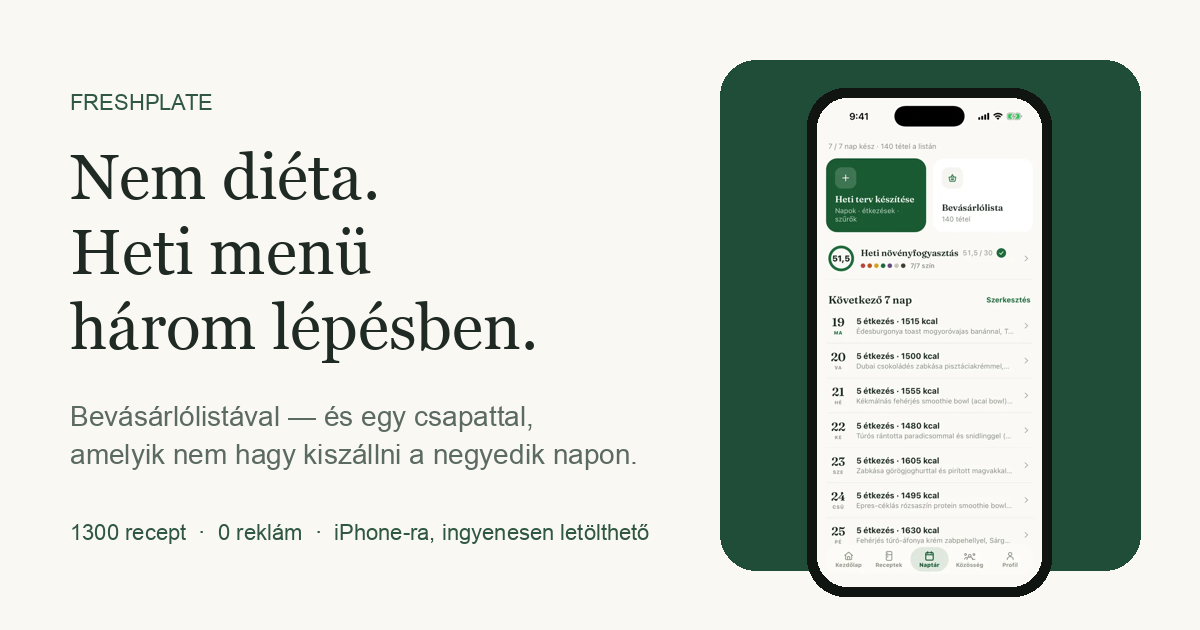
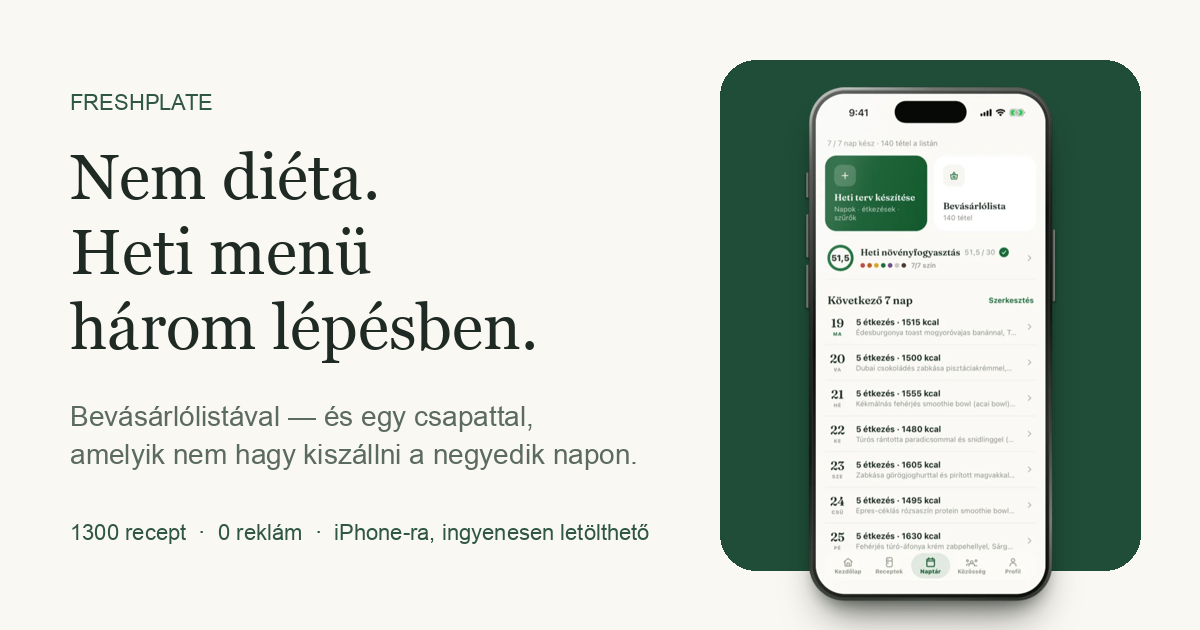
Landing: valósághű készülékkeretes telefon-képek (Store-galéria keret, 1:1 forrás, átlátszó háttér), fix magasságú, fehérbe olvadó színpad a lépés-kártyákban, OG-kép frissítve

Changed region(s): [[0.6475, 0.1206, 0.8942, 1.0]]

diff --git a/index.html b/index.html
@@ -67,12 +67,10 @@
   .facts { display:flex; flex-wrap:wrap; gap:10px 22px; margin-top:26px; font-size:.9rem; color:var(--muted); }
   .facts b { color:var(--ink); font-weight:600; }
 
-  /* Telefon-keret */
-  .phone { position:relative; width:250px; margin:0 auto; border-radius:40px; background:#101512; padding:10px;
-    box-shadow:0 30px 60px -30px rgba(31,42,36,.55), 0 0 0 1px rgba(0,0,0,.35) inset; }
-  .phone::before { content:""; position:absolute; top:18px; left:50%; transform:translateX(-50%); width:78px; height:22px; border-radius:12px; background:#000; z-index:2; }
-  .phone img { display:block; width:100%; border-radius:31px; }
-  .phone.lg { width:290px; }
+  /* Készülék-képek: a Store-galéria valósághű keretével renderelve, árnyékkal, átlátszó háttéren
+     (marketing/store-galeria/landing-phones). A képernyő 1:1 a forrással → 230 px-ig retinán éles. */
+  .device { display:block; width:100%; height:auto; }
+  .hero-phone { width:min(100%, 360px); margin:0 auto; }
   .phone-wrap { display:flex; justify-content:center; }
 
   /* Szekciók */
@@ -82,11 +80,11 @@
   .sec-head p { margin-top:12px; color:var(--muted); font-size:1.05rem; }
   .steps { display:grid; grid-template-columns:1fr; gap:26px; }
   .step { background:var(--paper); border:1px solid var(--line); border-radius:var(--radius); padding:26px 22px 0; display:flex; flex-direction:column; gap:14px; overflow:hidden; }
+  .stage { position:relative; height:430px; overflow:hidden; margin-top:auto; }
+  .stage .device { width:300px; margin:12px auto 0; }
+  .stage::after { content:""; position:absolute; left:0; right:0; bottom:0; height:90px; background:linear-gradient(to bottom, rgba(255,255,255,0), var(--paper) 90%); }
   .step .num { width:34px; height:34px; border-radius:50%; background:var(--leaf); color:var(--green); display:grid; place-items:center; font-weight:700; }
   .step p { color:var(--muted); }
-  .step .phone { width:200px; margin:14px auto -70px; border-radius:32px; padding:8px; }
-  .step .phone::before { width:60px; height:16px; top:14px; }
-  .step .phone img { border-radius:25px; }
   .pro-tag { display:inline-block; font-size:.72rem; letter-spacing:.1em; text-transform:uppercase; color:var(--green-2); background:var(--leaf); border-radius:999px; padding:3px 9px; font-weight:700; }
 
   .grid-4 { display:grid; grid-template-columns:1fr 1fr; gap:14px; }
@@ -184,7 +182,7 @@
         </div>
       </div>
       <div class="phone-wrap">
-        <div class="phone lg"><img src="assets/hero-heti-terv.webp" alt="A FreshPlate Naptár füle: 7 napos heti terv, bevásárlólista 140 tétellel, heti növényfogyasztás" width="460" height="1000" loading="eager"></div>
+        <img class="device hero-phone" src="assets/phone-hero.webp" alt="A FreshPlate Naptár füle iPhone-on: 7 napos heti terv, bevásárlólista 140 tétellel, heti növényfogyasztás" width="675" height="1200" loading="eager" fetchpriority="high">
       </div>
     </div>
   </section>
@@ -201,19 +199,19 @@
           <div class="num">1</div>
           <h3>Heti terv három lépésben <span class="pro-tag">Pro</span></h3>
           <p>Napok → étkezések → szűrők. A varázsló a saját ízlésedből, allergiáidból és kalóriacélodból rak össze egy hetet — reggelitől vacsoráig, tízóraival és uzsonnával.</p>
-          <div class="phone"><img src="assets/terv-kesz.webp" alt="A heti terv elkészült: 7 nap, 5 étkezés naponta" width="460" height="1000" loading="lazy"></div>
+          <div class="stage"><img class="device" src="assets/phone-terv.webp" alt="A heti terv varázsló 2. lépése: mely étkezések kellenek – reggeli, tízórai, ebéd, uzsonna, vacsora" width="675" height="1200" loading="lazy"></div>
         </article>
         <article class="step">
           <div class="num">2</div>
           <h3>Bevásárlólista, ami magától összeáll <span class="pro-tag">Pro</span></h3>
           <p>A hét minden hozzávalója egy listán, polcok szerint rendezve. A boltban csak pipálsz — fejben nem kell tartanod semmit.</p>
-          <div class="phone"><img src="assets/lista.webp" alt="Bevásárlólista polcok szerint: zöldség-gyümölcs, tejtermék, hús" width="460" height="1000" loading="lazy"></div>
+          <div class="stage"><img class="device" src="assets/phone-lista.webp" alt="Bevásárlólista polcok szerint, bolti móddal és napi szűrővel" width="675" height="1200" loading="lazy"></div>
         </article>
         <article class="step">
           <div class="num">3</div>
           <h3>21 nap — egyedül vagy a csapatoddal</h3>
           <p>Egyszerre egy szokás épül. Hozz létre egy csoportot a pároddal, a kollégáiddal vagy a barátaiddal: mindenki látja, ki tartotta ma, és egy koppintással biztathatjátok egymást.</p>
-          <div class="phone"><img src="assets/szokas-21.webp" alt="Fókusz-szokás: 11 napos sorozat a 21-ből, napi bejelöléssel" width="460" height="1000" loading="lazy"></div>
+          <div class="stage"><img class="device" src="assets/phone-szokas.webp" alt="Fókusz-szokás: 11 napos sorozat a 21-ből, napi bejelöléssel" width="675" height="1200" loading="lazy"></div>
         </article>
       </div>
     </div>
